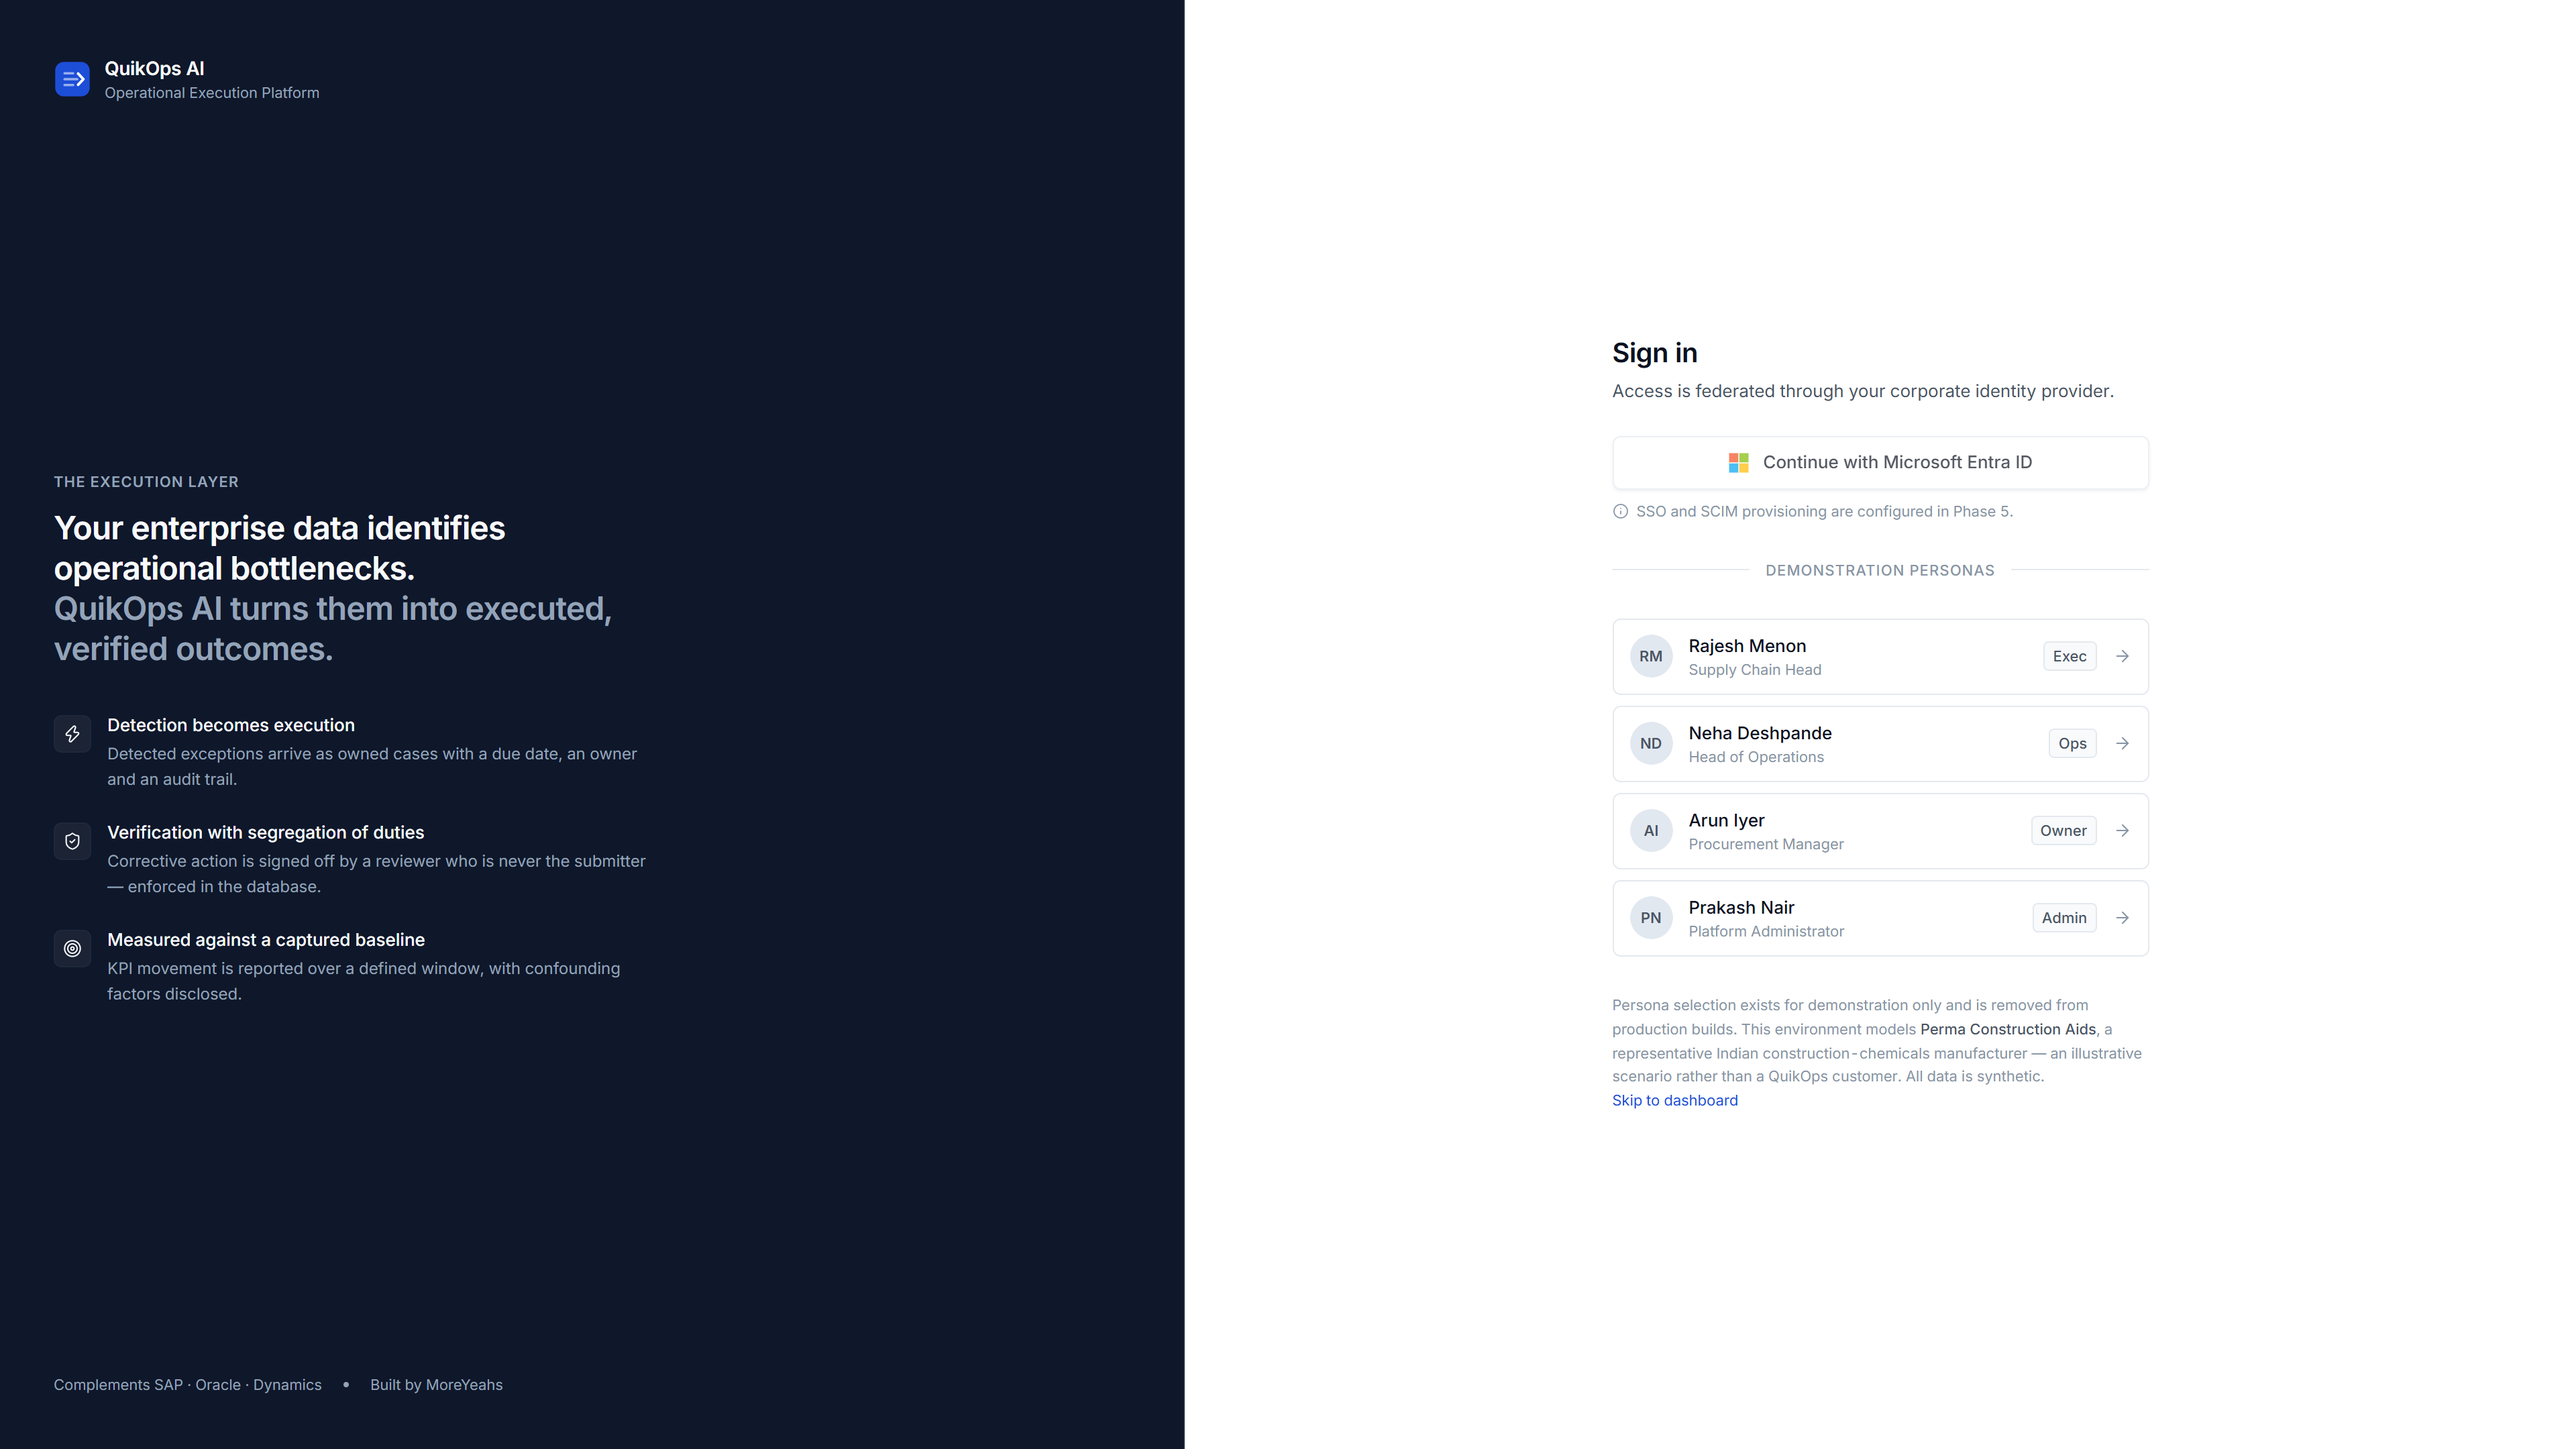
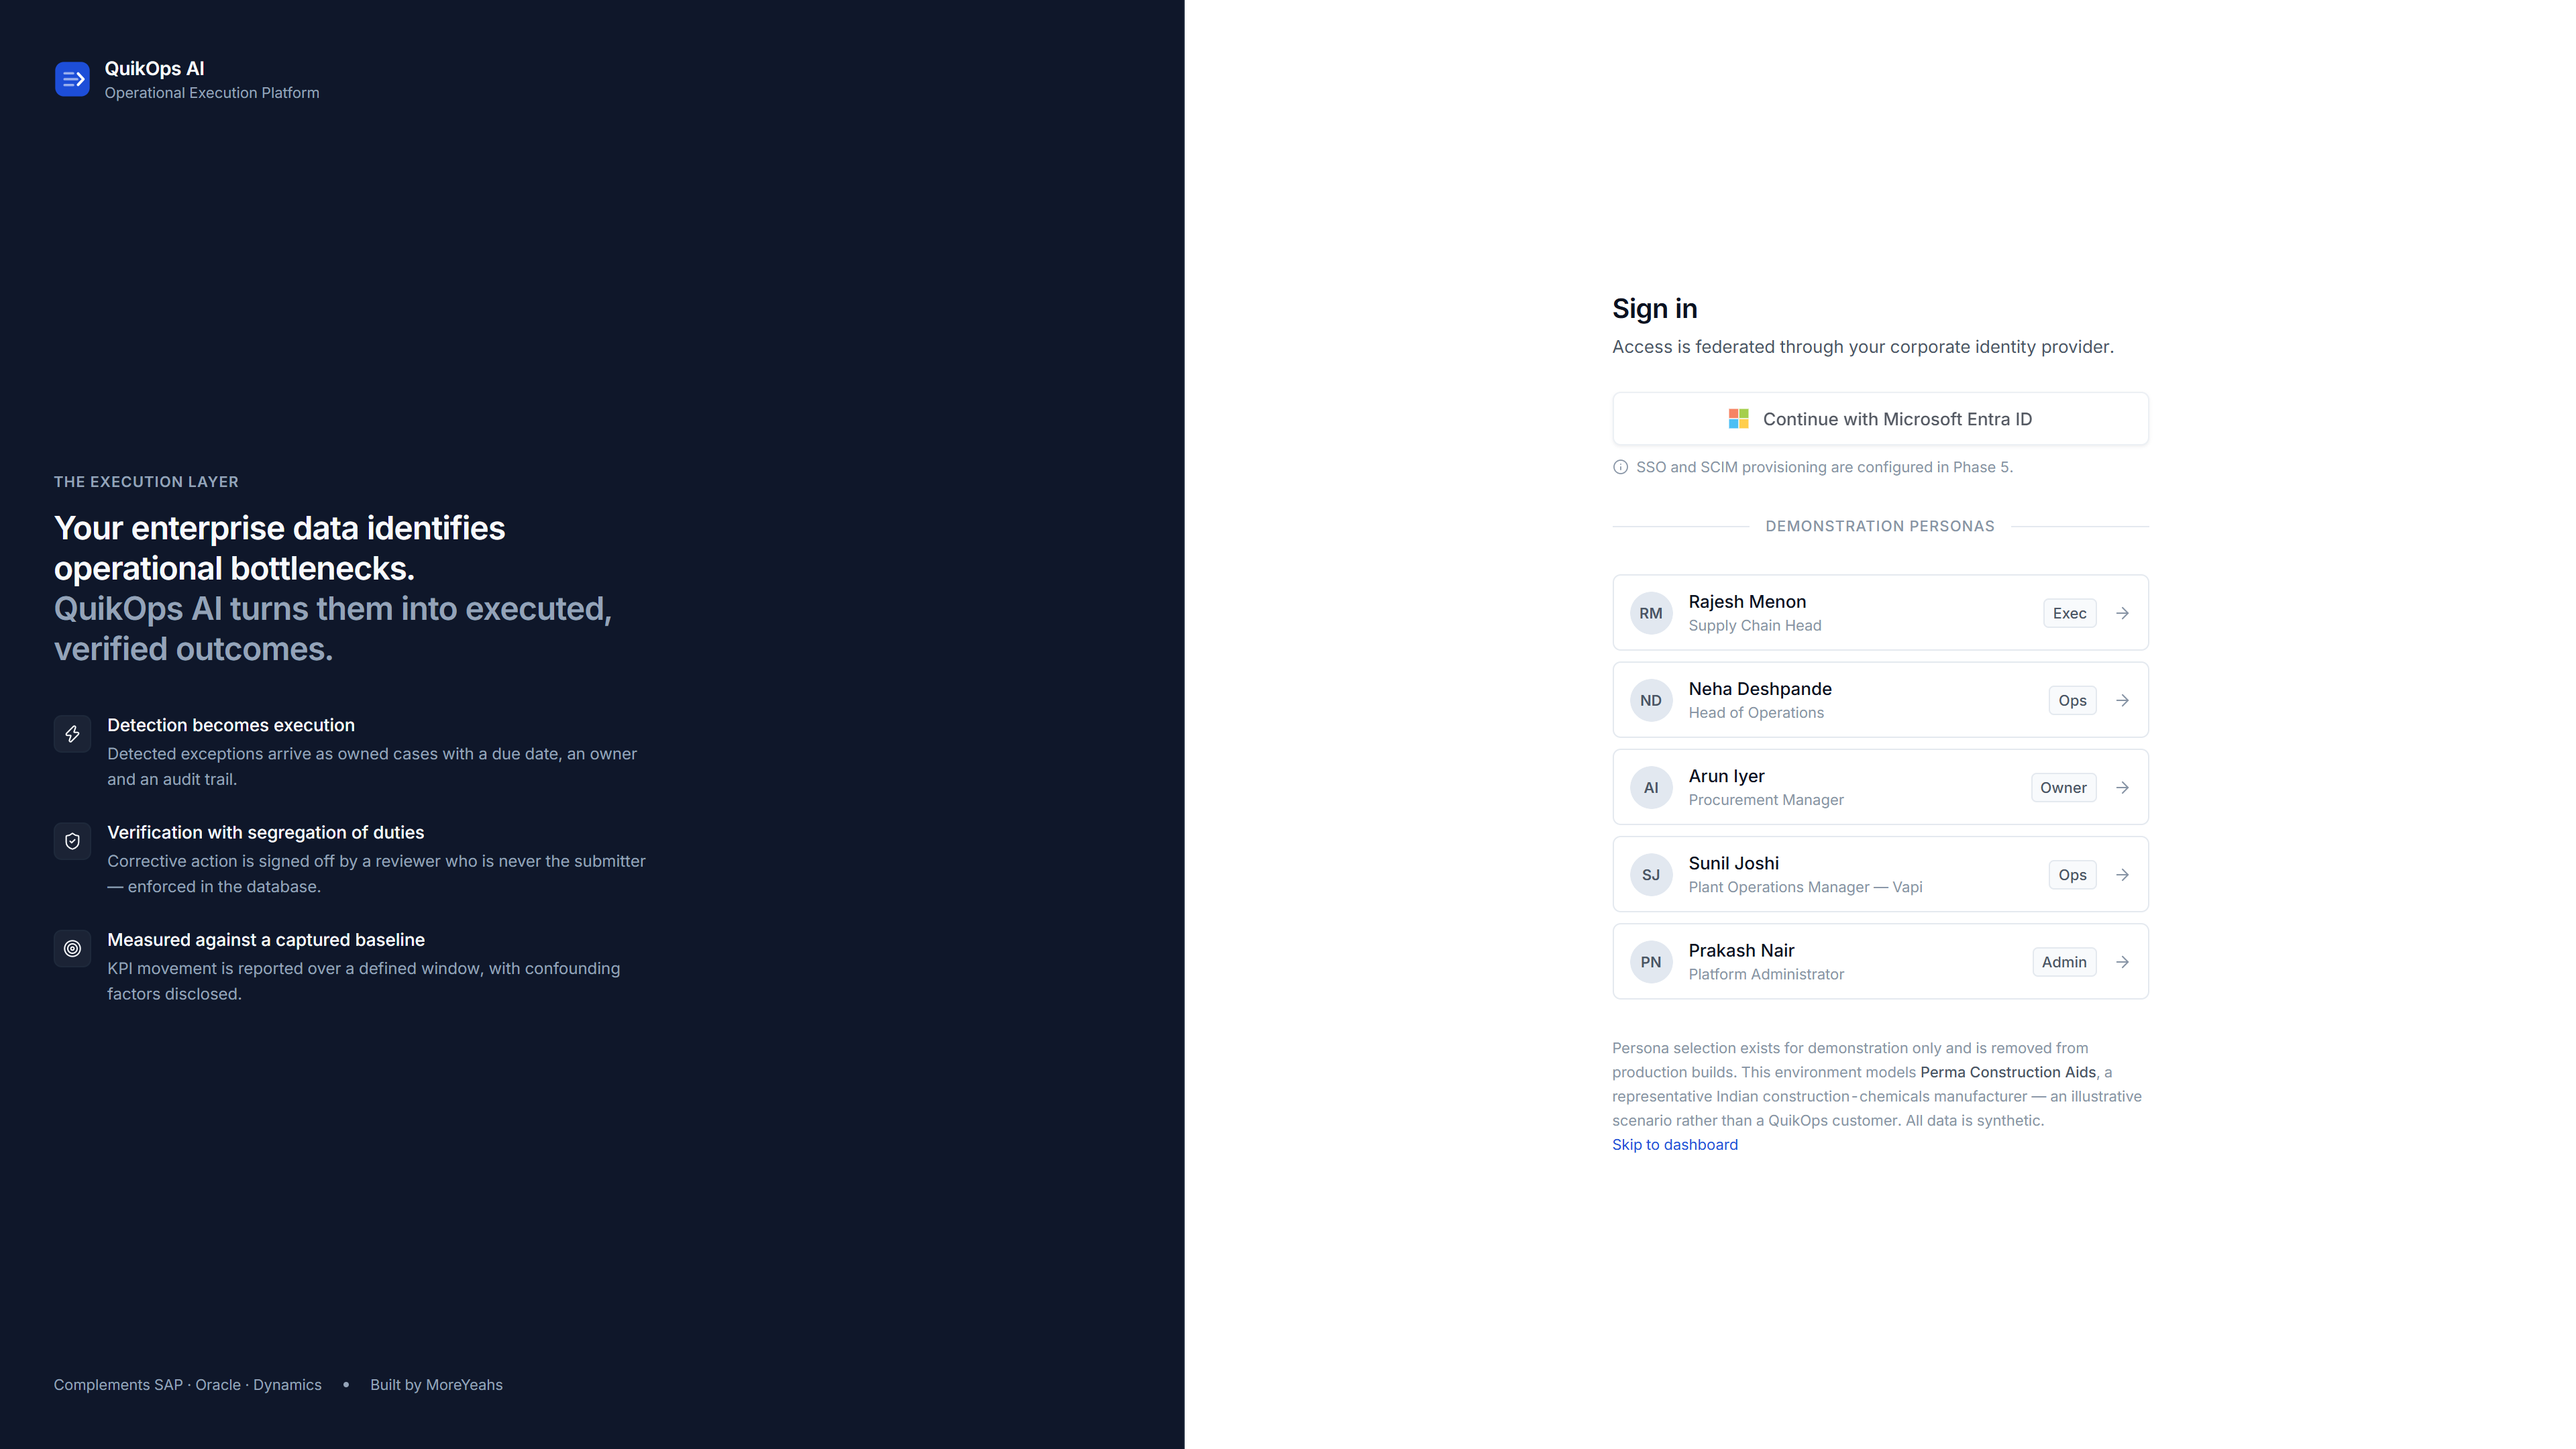
Offer the reviewer as a demo persona
The verification card tells the reader "only Sunil Joshi can record the decision
on this case - switch persona to review it", and Sunil Joshi was not in the
persona list. reviewerFor() routes a Vapi case to that plant's operations
manager, but the four personas on offer were the executive, the head of
operations, the procurement manager and the administrator. Following the
instruction the product gives was impossible, and the walkthrough stopped one
step before the decision the verification story exists to demonstrate.

Adding him changes no logic. Segregation of duties still holds, and was checked
rather than assumed: against QO-PA-2026-00418 the reviewer now sees the decision
controls, a third party sees the waiting notice, and Arun Iyer - the owner -
sees neither. An owner still cannot verify his own work; the reviewer simply
became reachable.

The login screenshot is recaptured for the fifth card. The administration frame
came back byte-identical, because its user table already listed all nine people
and never showed the gap - the gap was only in who could be presented as.

eslint 0/0, typecheck clean, build 19/19.

Changed region(s): [[0.625, 0.1861, 0.8125, 0.8065]]

diff --git a/src/data/fixtures/organisation.ts b/src/data/fixtures/organisation.ts
@@ -141,5 +141,11 @@ export const DEMO_PERSONAS = [
   "usr_rmenon",
   "usr_ndeshpande",
   "usr_aiyer",
+  // The reviewer has to be presentable, not just named. `reviewerFor()` routes a
+  // Vapi case to its plant manager, and the verification card tells the reader
+  // "only Sunil Joshi can record the decision — switch persona to review it". A
+  // reviewer absent from this list makes that instruction impossible to follow
+  // and strands the demo one step before the decision it exists to show.
+  "usr_sjoshi",
   "usr_pnair",
 ] as const;
